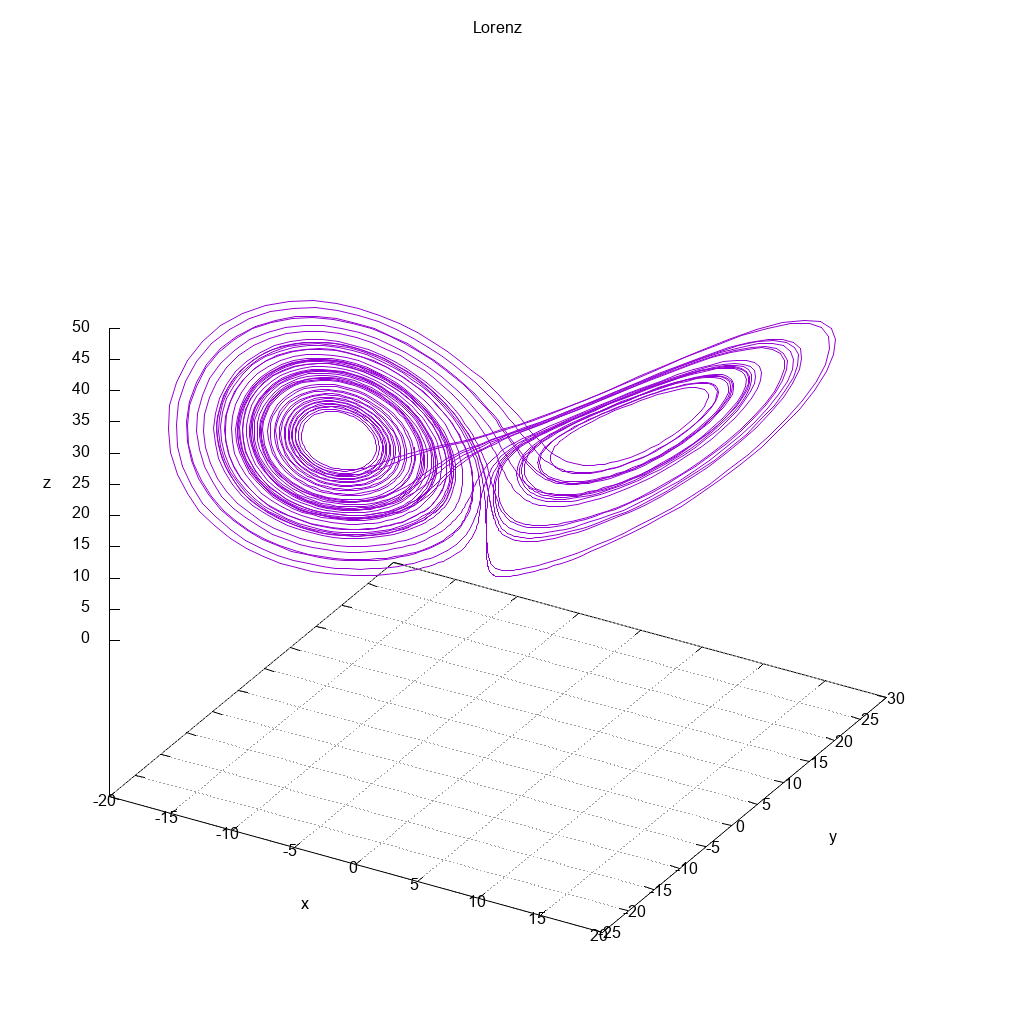
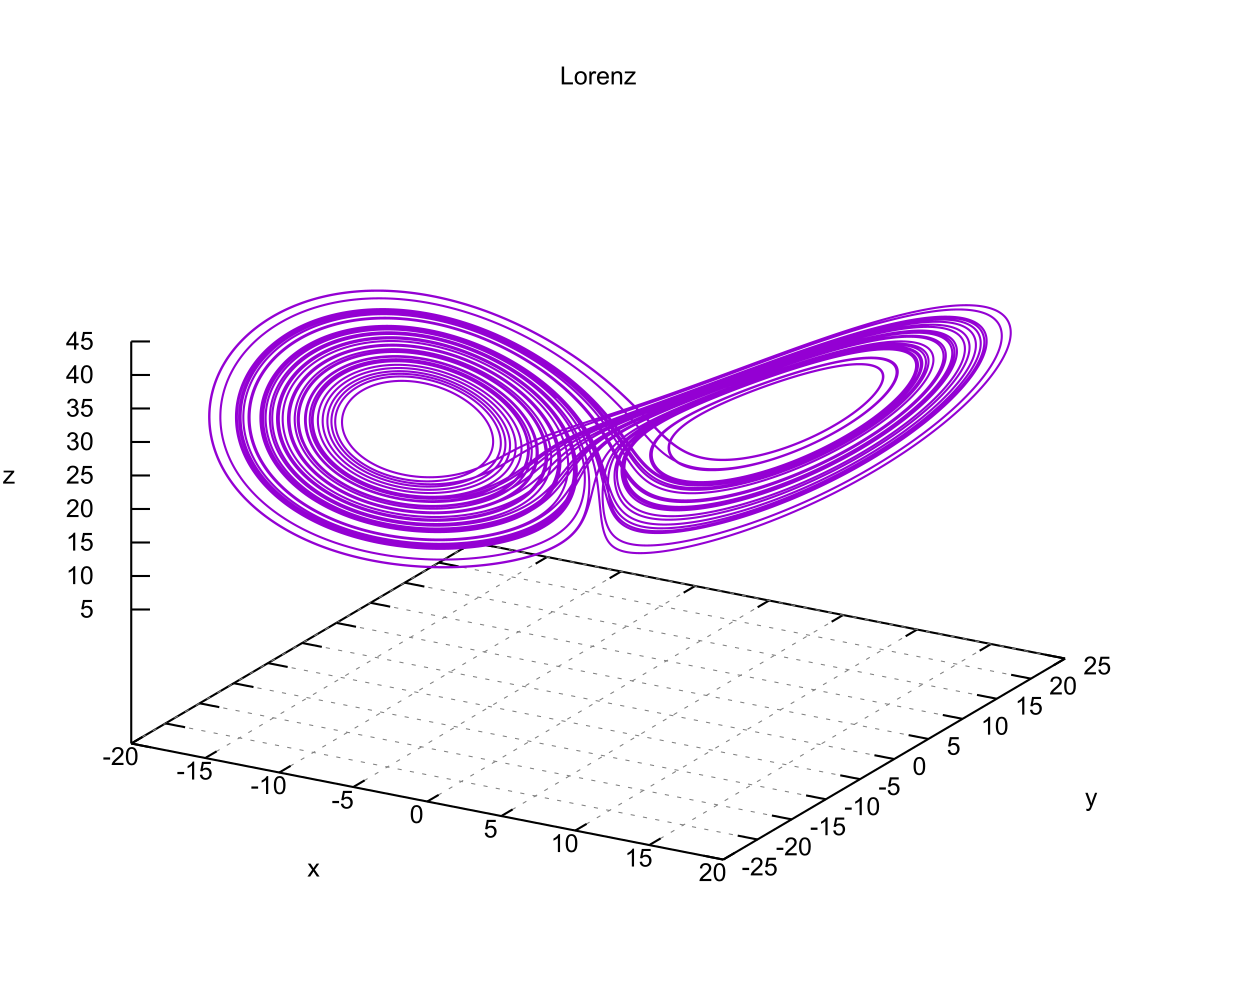
lorenz now uses SVG

diff --git a/docs/index.html b/docs/index.html
@@ -3,7 +3,7 @@
 "http://www.w3.org/TR/xhtml1/DTD/xhtml1-strict.dtd">
 <html xmlns="http://www.w3.org/1999/xhtml" lang="en" xml:lang="en">
 <head>
-<!-- 2025-07-24 Thu 16:18 -->
+<!-- 2025-07-24 Thu 16:44 -->
 <meta http-equiv="Content-Type" content="text/html;charset=utf-8" />
 <meta name="viewport" content="width=1024, initial-scale=1" />
 <title>MRKISS Library</title>
@@ -267,12 +267,12 @@
 
 <tr>
 <td class="org-right"><b>Updated:</b></td>
-<td class="org-left"><i>2025-07-24 16:18:58</i></td>
+<td class="org-left"><i>2025-07-24 16:43:42</i></td>
 </tr>
 
 <tr>
 <td class="org-right"><b>Generated:</b></td>
-<td class="org-left"><i>2025-07-24 16:18:58</i></td>
+<td class="org-left"><i>2025-07-24 16:44:21</i></td>
 </tr>
 </tbody>
 </table>
@@ -286,7 +286,7 @@ Copyright &copy; 2025 Mitch Richling. All rights reserved.
 <ul>
 <li><a href="#introduction">1. Introduction</a></li>
 <li><a href="#features">2. Features &amp; Requirements</a></li>
-<li><a href="#org29ccf74">3. Vocabulary &amp; Definitions</a></li>
+<li><a href="#orga0eabf5">3. Vocabulary &amp; Definitions</a></li>
 <li><a href="#def-method">4. Defining Runge-Kutta Methods in <code>MRKISS</code></a>
 <ul>
 <li><a href="#def-method-stab">4.1. Non-embedded Methods</a></li>
@@ -295,8 +295,8 @@ Copyright &copy; 2025 Mitch Richling. All rights reserved.
 </li>
 <li><a href="#predefinedrk">5. Predefined Runge-Kutta Methods in <code>MRKISS</code></a>
 <ul>
-<li><a href="#orgd4421f0">5.1. Predefined Non-embedded Methods</a></li>
-<li><a href="#org3d8699a">5.2. Predefined Embedded Methods</a></li>
+<li><a href="#org6b185f9">5.1. Predefined Non-embedded Methods</a></li>
+<li><a href="#org71a0b21">5.2. Predefined Embedded Methods</a></li>
 </ul>
 </li>
 <li><a href="#codecon-homo">6. Homogeneous vs Non-Homogeneous IVPs Naming Conventions</a></li>
@@ -484,8 +484,8 @@ couple significant ways:
 </ul>
 </div>
 </div>
-<div id="outline-container-org29ccf74" class="outline-2">
-<h2 id="org29ccf74"><span class="section-number-2">3.</span> Vocabulary &amp; Definitions</h2>
+<div id="outline-container-orga0eabf5" class="outline-2">
+<h2 id="orga0eabf5"><span class="section-number-2">3.</span> Vocabulary &amp; Definitions</h2>
 <div class="outline-text-2" id="text-3">
 <p>
 Within the confines of this software, we define a system of ODEs as:
@@ -740,8 +740,8 @@ worksheets contain the coefficients for the method's Butcher tableau, code to co
 stability region.
 </p>
 </div>
-<div id="outline-container-orgd4421f0" class="outline-3">
-<h3 id="orgd4421f0"><span class="section-number-3">5.1.</span> Predefined Non-embedded Methods</h3>
+<div id="outline-container-org6b185f9" class="outline-3">
+<h3 id="org6b185f9"><span class="section-number-3">5.1.</span> Predefined Non-embedded Methods</h3>
 <div class="outline-text-3" id="text-5-1">
 <table border="2" cellspacing="0" cellpadding="6" rules="groups" frame="hsides" align="center">
 
@@ -830,8 +830,8 @@ stability region.
 </table>
 </div>
 </div>
-<div id="outline-container-org3d8699a" class="outline-3">
-<h3 id="org3d8699a"><span class="section-number-3">5.2.</span> Predefined Embedded Methods</h3>
+<div id="outline-container-org71a0b21" class="outline-3">
+<h3 id="org71a0b21"><span class="section-number-3">5.2.</span> Predefined Embedded Methods</h3>
 <div class="outline-text-3" id="text-5-2">
 <table border="2" cellspacing="0" cellpadding="6" rules="groups" frame="hsides" align="center">
 
@@ -1194,7 +1194,7 @@ ls
 </pre>
 </div>
 
-<pre class="example" id="org735a542">
+<pre class="example" id="org24b1b0f">
 rm -f mrkiss_config.obj mrkiss_config.mod
 gfortran -O3 -Wsurprising -W -std=f2023 -c ../src/mrkiss_config.f90 -o mrkiss_config.obj
 rm -f mrkiss_utils.obj mrkiss_utils.mod
@@ -1214,7 +1214,7 @@ Windows running it looks like this:
 </pre>
 </div>
 
-<pre class="example" id="orgf0e312b">
+<pre class="example" id="org2953ec0">
              Milliseconds:      0.000
           Solution Points:      10000
      Total one_step calls:       9999
@@ -1232,7 +1232,7 @@ curve.  If you have GNU Plot, you can graph it with something like this:
 </div>
 
 
-<div id="org0aeb9f6" class="figure">
+<div id="org0f43adc" class="figure">
 <p><a href="pics/lorenz.png" width="90%" align="center"><img src="pics/lorenz.png" alt="lorenz.png" width="90%" align="center" /></a>
 </p>
 </div>
@@ -1545,6 +1545,9 @@ graphs.  None of these tools are required to compile and use the package because
 </ul></dd>
 <dt>nomacs</dt><dd><ul class="org-ul">
 <li>Used to display images</li>
+</ul></dd>
+<dt>ImageMagick</dt><dd><ul class="org-ul">
+<li>Used to process and/or convert image files</li>
 </ul></dd>
 </dl>
 </div>

diff --git a/docs/roadmap.html b/docs/roadmap.html
@@ -3,7 +3,7 @@
 "http://www.w3.org/TR/xhtml1/DTD/xhtml1-strict.dtd">
 <html xmlns="http://www.w3.org/1999/xhtml" lang="en" xml:lang="en">
 <head>
-<!-- 2025-07-24 Thu 16:16 -->
+<!-- 2025-07-24 Thu 16:22 -->
 <meta http-equiv="Content-Type" content="text/html;charset=utf-8" />
 <meta name="viewport" content="width=1024, initial-scale=1" />
 <title>MRKISS Roadmap</title>
@@ -216,8 +216,8 @@
  <a accesskey="H" href="https://www.mitchr.me/"> HOME </a>
 </div><div id="content" class="content">
 <h1 class="title">MRKISS Roadmap</h1>
-<div id="outline-container-orgefc064a" class="outline-2">
-<h2 id="orgefc064a"><span class="section-number-2">1.</span> Summary</h2>
+<div id="outline-container-org7d21336" class="outline-2">
+<h2 id="org7d21336"><span class="section-number-2">1.</span> Summary</h2>
 <div class="outline-text-2" id="text-1">
 <p>
 Right now everything that is implemented seems to work; however, I have pretty poor test coverage for the high level solvers.  The examples work, but are not
@@ -259,7 +259,6 @@ well documented yet and don't cover all the use cases I want to cover.  I have s
 </ul></li>
 <li>Make sure examples are comprehensive and useful</li>
 <li>Create <i>sloppy</i> version of <code>steps_condy_stab_*t</code> called <code>steps_sloppy_condy_stab_*t</code></li>
-<li>Add aspect ratio argument to <code>steps_condy_stab_*t()</code></li>
 <li>Add tests for high level solvers
 <ul class="org-ul">
 <li><code>steps_fixed_stab_*t()</code>
@@ -308,6 +307,7 @@ well documented yet and don't cover all the use cases I want to cover.  I have s
 </ul></li>
 </ul></li>
 <li>Finalize step-size and error computation in <code>steps_adapt_etab_*t()</code></li>
+<li><del>Add aspect ratio argument to <code>steps_condy_stab_*t()</code></del> <b>CANCELED*</b></li>
 <li><del>Add "sloppy" option to <code>steps_condy_stab_*t</code></del> <b>CANCELED*</b></li>
 <li><del>Add option to not error out on bisection problems in <code>steps_condy_stab_*t()</code></del> <b>DONE</b></li>
 <li><del>Add option to not error out on bisection problems in <code>steps_adapt_etab_*t()</code></del> <b>DONE</b></li>
